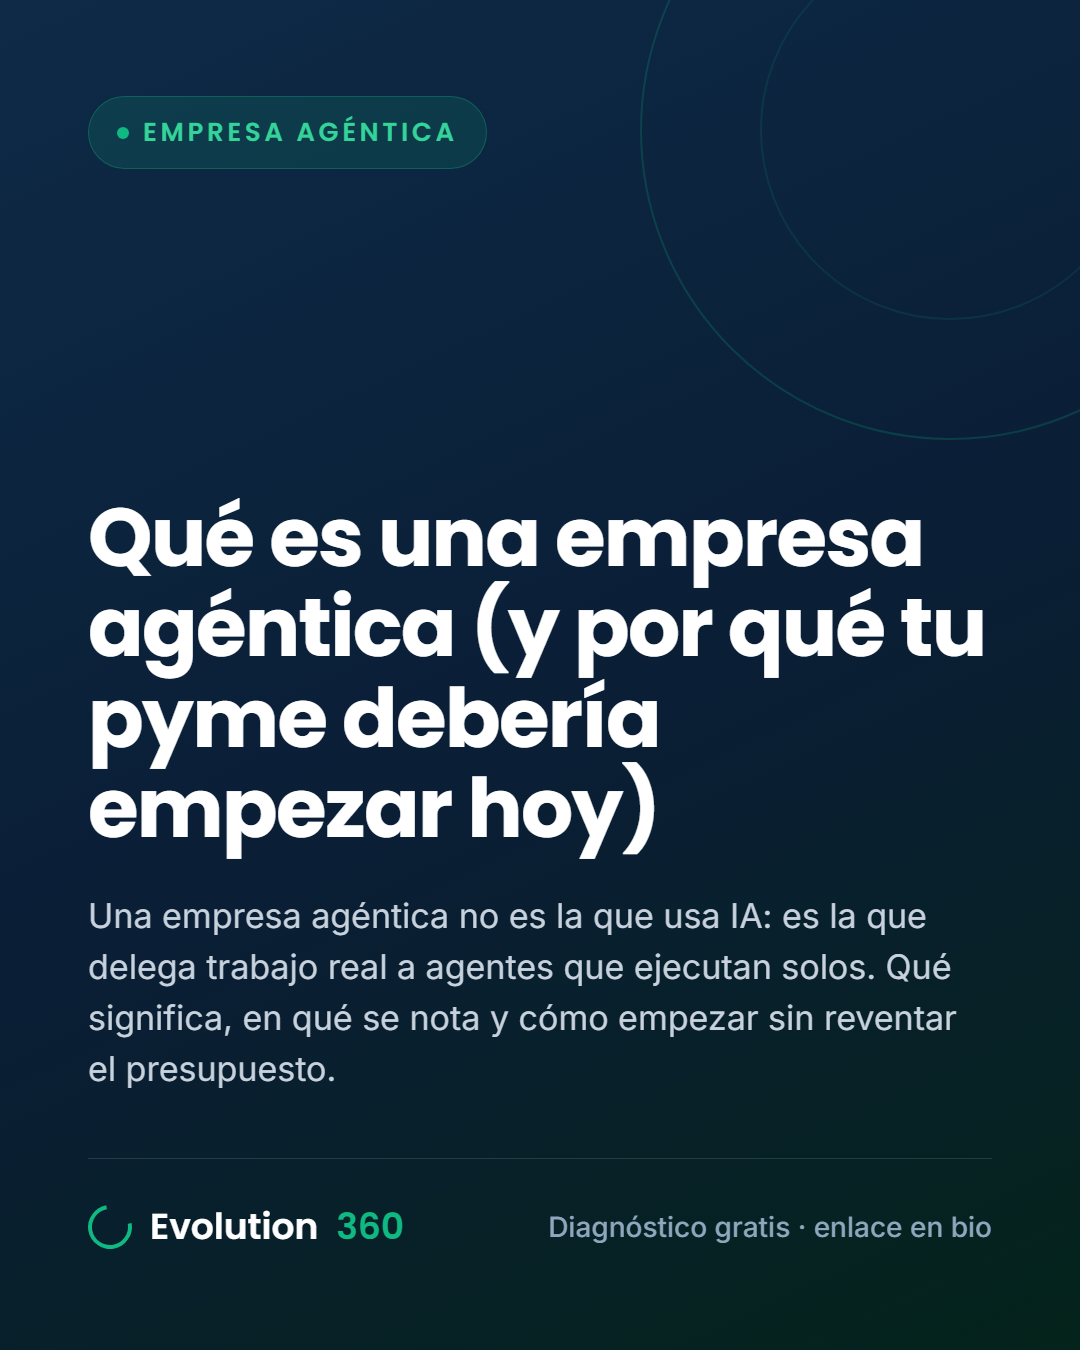
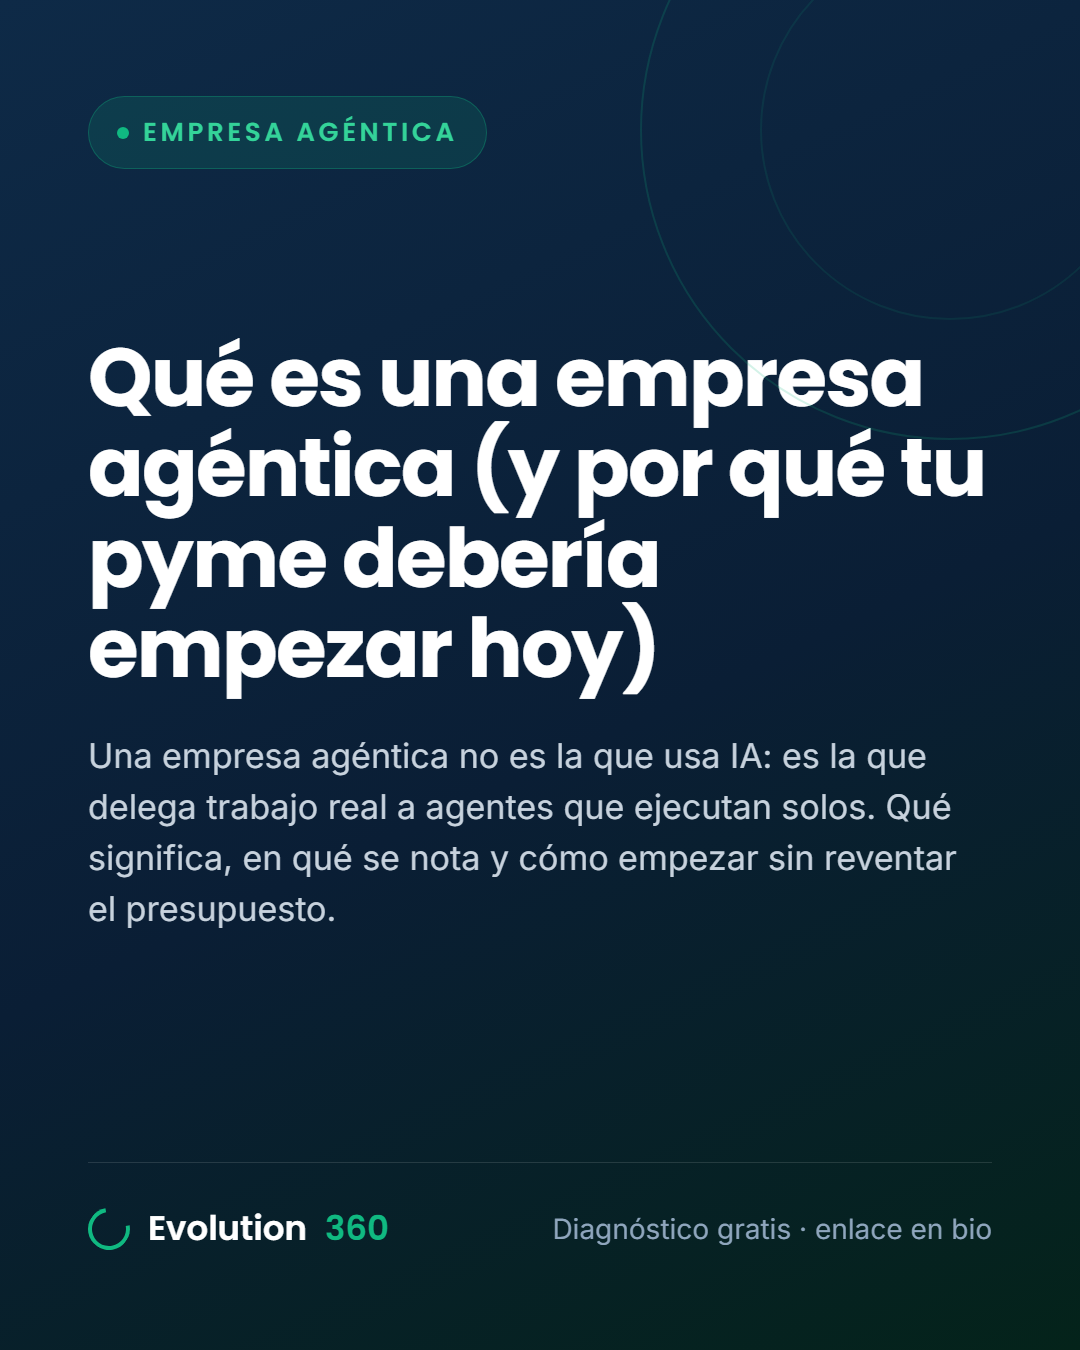
social: que-es-una-empresa-agentica (1 img)

Changed region(s): [[0.0611, 0.2489, 0.9167, 0.8089], [0.4889, 0.9022, 0.9167, 0.9333], [0.0917, 0.9022, 0.3667, 0.9333]]

diff --git a/blog/img/social/que-es-una-empresa-agentica.html b/blog/img/social/que-es-una-empresa-agentica.html
@@ -1,59 +1,38 @@
-<!doctype html><html lang="es"><head><meta charset="utf-8">
-<link rel="stylesheet" href="../carrusel-01/fonts-embedded.css">
-<style>
+<!doctype html><html lang="es"><head><meta charset="utf-8"><link rel="stylesheet" href="../carrusel-01/fonts-embedded.css"><style>
   * { margin:0; padding:0; box-sizing:border-box; }
   html,body { width:1080px; height:1350px; }
   body {
-    font-family:'Inter',system-ui,sans-serif;
-    background:#0A1E35;
-    background:linear-gradient(155deg,#0E2A47 0%,#0A1E35 55%,#04231A 100%);
-    color:#FFFFFF; position:relative; overflow:hidden;
-    padding:96px 88px; display:flex; flex-direction:column;
+    font-family:'Inter',system-ui,sans-serif; color:#FFFFFF;
+    background:#0A1E35; background:linear-gradient(155deg,#0E2A47 0%,#0A1E35 55%,#04231A 100%);
+    position:relative; overflow:hidden; padding:96px 88px; display:flex; flex-direction:column;
   }
-  /* anillo 360 decorativo */
-  .ring {
-    position:absolute; right:-180px; top:-180px; width:620px; height:620px;
-    border-radius:9999px; border:2px solid rgba(16,185,129,.20);
-  }
-  .ring2 {
-    position:absolute; right:-60px; top:-60px; width:380px; height:380px;
-    border-radius:9999px; border:2px solid rgba(16,185,129,.12);
-  }
-  .eyebrow {
-    display:inline-flex; align-items:center; gap:14px; align-self:flex-start;
-    background:rgba(16,185,129,.14); color:#34D399;
-    font-family:'Poppins',sans-serif; font-weight:600; font-size:26px;
-    letter-spacing:.14em; padding:16px 28px; border-radius:9999px;
-    border:1px solid rgba(16,185,129,.30);
-  }
+  .ring { position:absolute; right:-180px; top:-180px; width:620px; height:620px;
+    border-radius:9999px; border:2px solid rgba(16,185,129,.18); }
+  .ring2 { position:absolute; right:-60px; top:-60px; width:380px; height:380px;
+    border-radius:9999px; border:2px solid rgba(16,185,129,.11); }
+  .eyebrow { display:inline-flex; align-items:center; gap:14px; align-self:flex-start;
+    background:rgba(16,185,129,.14); color:#34D399; font-family:'Poppins',sans-serif;
+    font-weight:600; font-size:26px; letter-spacing:.14em; padding:16px 28px;
+    border-radius:9999px; border:1px solid rgba(16,185,129,.30); }
   .dot { width:12px; height:12px; border-radius:9999px; background:#10B981; }
-  .titulo {
-    font-family:'Poppins',sans-serif; font-weight:700;
-    font-size:82px; line-height:1.1; letter-spacing:-0.02em;
-    margin-top:auto; margin-bottom:36px;
-  }
-  .desc {
-    font-size:34px; line-height:1.5; color:#C7D2DD; font-weight:400;
-    max-width:900px; margin-bottom:64px;
-  }
-  .pie {
-    display:flex; align-items:center; justify-content:space-between;
-    border-top:1px solid rgba(255,255,255,.12); padding-top:40px;
-  }
-  .marca { display:flex; align-items:center; gap:18px;
-    font-family:'Poppins',sans-serif; font-weight:600; font-size:36px; }
+  .pie { display:flex; align-items:center; justify-content:space-between;
+    border-top:1px solid rgba(255,255,255,.12); padding-top:40px; margin-top:auto; }
+  .marca { display:flex; align-items:center; gap:18px; font-family:'Poppins',sans-serif;
+    font-weight:600; font-size:34px; }
   .marca .g { color:#10B981; }
-  .anillo { width:44px; height:44px; border-radius:9999px;
-    border:4px solid #10B981; border-top-color:transparent; transform:rotate(35deg); }
-  .cta { font-size:28px; color:#8FA6BD; font-weight:500; }
-</style></head>
-<body>
-  <div class="ring"></div><div class="ring2"></div>
-  <span class="eyebrow"><span class="dot"></span>EMPRESA AGÉNTICA</span>
-  <h1 class="titulo">Qué es una empresa agéntica (y por qué tu pyme debería empezar hoy)</h1>
-  <p class="desc">Una empresa agéntica no es la que usa IA: es la que delega trabajo real a agentes que ejecutan solos. Qué significa, en qué se nota y cómo empezar sin reventar el presupuesto.</p>
-  <div class="pie">
-    <div class="marca"><span class="anillo"></span>Evolution<span class="g">360</span></div>
-    <div class="cta">Diagnóstico gratis · enlace en bio</div>
-  </div>
-</body></html>
+  .anillo { width:42px; height:42px; border-radius:9999px; border:4px solid #10B981;
+    border-top-color:transparent; transform:rotate(35deg); }
+  .contador { position:absolute; top:96px; right:88px; font-family:'Poppins',sans-serif;
+    font-weight:600; font-size:26px; color:#8FA6BD; }
+  .swipe { font-size:28px; color:#34D399; font-weight:600; }
+</style></head><body>
+      <div class="ring"></div><div class="ring2"></div>
+      <span class="eyebrow"><span class="dot"></span>EMPRESA AGÉNTICA</span>
+      <h1 style="font-family:'Poppins';font-weight:700;font-size:82px;line-height:1.1;
+        letter-spacing:-.02em;margin-top:auto;margin-bottom:36px;">Qué es una empresa agéntica (y por qué tu pyme debería empezar hoy)</h1>
+      <p style="font-size:34px;line-height:1.5;color:#C7D2DD;max-width:900px;
+        margin-bottom:64px;">Una empresa agéntica no es la que usa IA: es la que delega trabajo real a agentes que ejecutan solos. Qué significa, en qué se nota y cómo empezar sin reventar el presupuesto.</p>
+      <div class="pie">
+        <div class="marca"><span class="anillo"></span>Evolution<span class="g">360</span></div>
+        <div style="font-size:28px;color:#8FA6BD;">Diagnóstico gratis · enlace en bio</div>
+      </div></body></html>
